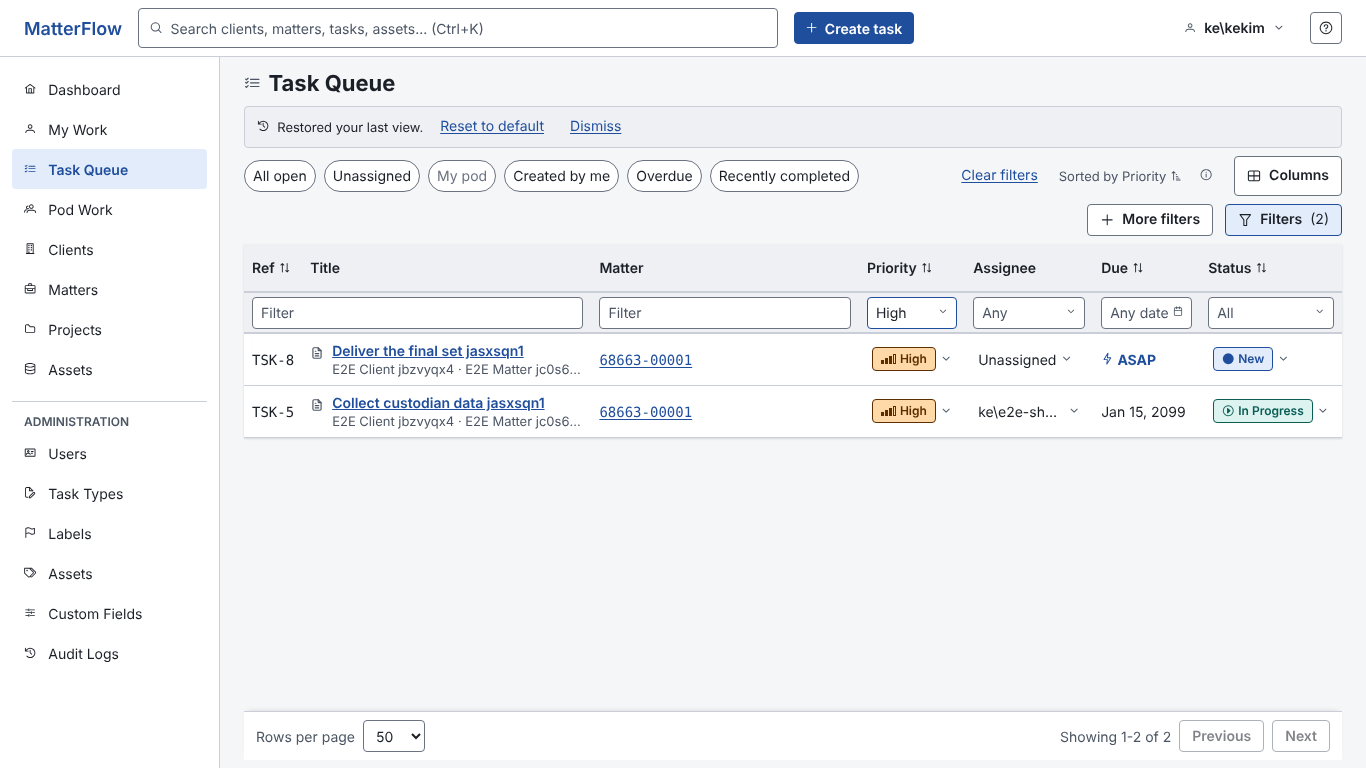
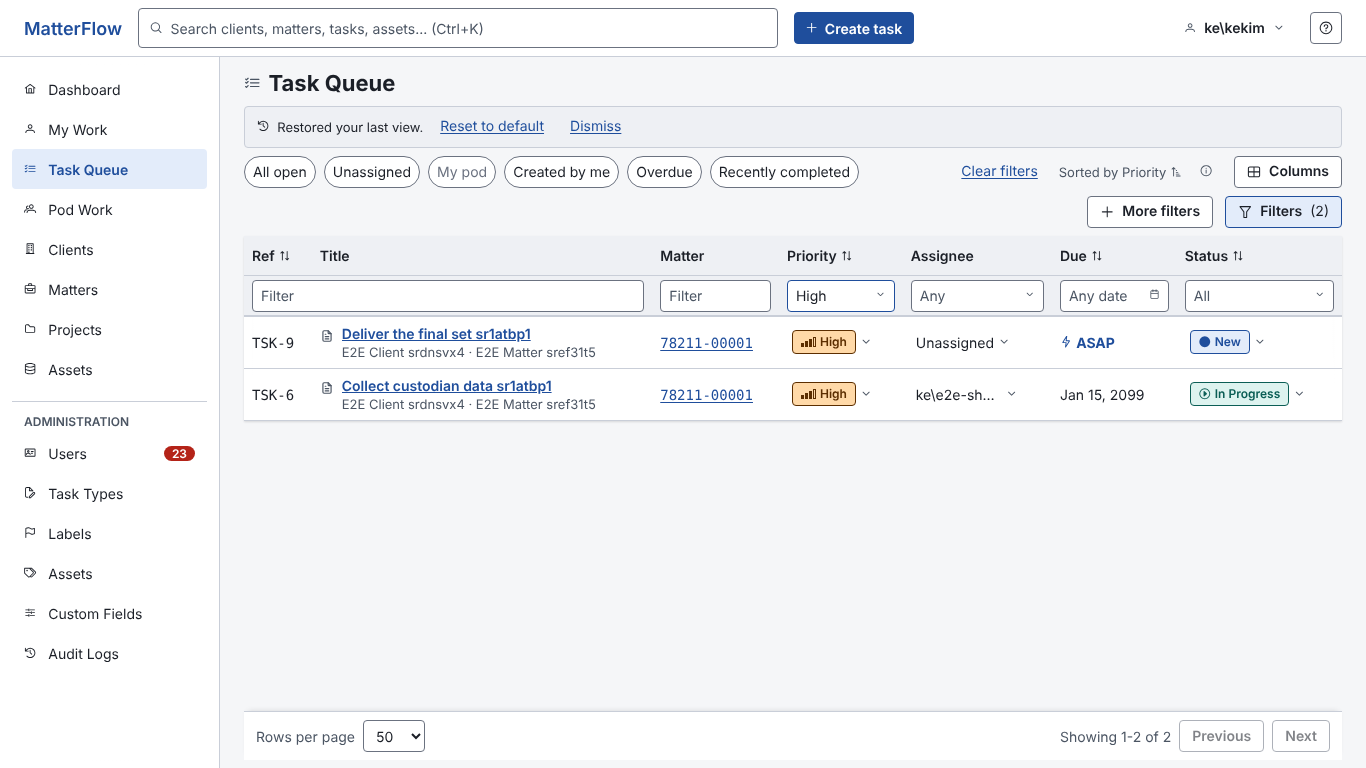
Filters: work table layout (header and filter row heights, text filters do not widen columns), Availability select, test robustness
The header row of the work table is exactly 40 px when the filter row shows (it sticks at 40 px), Columns is 32 px like Filters and More filters, text
filters fill their cell instead of widening the column (the Title no longer wraps to two lines), quick views stay left in the bar. The select in a filter
row has tight side padding so "Out of office" is no longer clipped in the Users Availability filter. Users e2e tests use a width at which the grid does not
fall back to the sheet; the Audit smoke test waits for the live Object id filter to load before opening a row; fixed-header, ux-round-4 and assignment tests
follow the new bar. Screenshots and README of the work lists.

Claude-Session: https://claude.ai/code/session_01GjQ3L6gEego4PwsSfbngaa

diff --git a/frontend/e2e/tests/column-filters-admin.spec.ts b/frontend/e2e/tests/column-filters-admin.spec.ts
@@ -30,14 +30,16 @@ test.describe('Column filters on the administration lists', () => {
       page,
       seed,
     }) => {
-      await page.setViewportSize({ width: 1366, height: 768 });
+      // 1600 px: the Users grid is borderline at 1366 (a person with pods fills its width and the filters then move into the sheet by design),
+      // and these tests are about the filters, not about that fallback.
+      await page.setViewportSize({ width: 1600, height: 900 });
       const token = uid();
       const tech = await seed.user(['Data Technician'], `tech-${token}`);
       const away = await seed.user(['Data Scientist'], `away-${token}`);
       const waiting = await seed.user([], `wait-${token}`);
       await seed.outOfOffice(away.userId, { note: 'Away' });
 
-      await page.goto('/admin/users?status=all');
+      await page.goto('/admin/users');
       const rows = grid(page, 'Users list').locator('tbody tr');
       await expect(rows.first()).toBeVisible();
       // No search box and no status or availability select: the filters are column filters, closed by default.
@@ -46,6 +48,8 @@ test.describe('Column filters on the administration lists', () => {
         0,
       );
       await expect(toggle(page)).toHaveAttribute('aria-pressed', 'false');
+      await page.goto('/admin/users?status=all');
+      await expect(rows.first()).toBeVisible();
 
       await page.goto(`/admin/users?status=all&account=${token}`);
       await expect(text(page, 'Windows account')).toHaveValue(token); // the address opened the row
@@ -94,7 +98,9 @@ test.describe('Column filters on the administration lists', () => {
     });
 
     test('First seen takes a date range and presets in the viewer zone', async ({ page, seed }) => {
-      await page.setViewportSize({ width: 1366, height: 768 });
+      // 1600 px: the Users grid is borderline at 1366 (a person with pods fills its width and the filters then move into the sheet by design),
+      // and these tests are about the filters, not about that fallback.
+      await page.setViewportSize({ width: 1600, height: 900 });
       const token = uid();
       await seed.user(['Data Technician'], `seen-${token}`);
       await page.goto(`/admin/users?status=all&account=${token}`);
@@ -116,7 +122,9 @@ test.describe('Column filters on the administration lists', () => {
       page,
       seed,
     }) => {
-      await page.setViewportSize({ width: 1366, height: 768 });
+      // 1600 px: the Users grid is borderline at 1366 (a person with pods fills its width and the filters then move into the sheet by design),
+      // and these tests are about the filters, not about that fallback.
+      await page.setViewportSize({ width: 1600, height: 900 });
       await seed.user([], `cue-${uid()}`); // someone is waiting
       await page.goto('/admin/users');
       await expect(grid(page, 'Users list').locator('tbody tr').first()).toBeVisible();

diff --git a/frontend/e2e/tests/ux-round-4.spec.ts b/frontend/e2e/tests/ux-round-4.spec.ts
@@ -444,9 +444,9 @@ test.describe('Round 4: queues, wording and accessibility', () => {
       (await page.getByRole('button', { name: 'Columns' }).boundingBox())!,
     ];
     expect(columns.height).toBe(filters.height);
-    // "Sorted by" and Columns sit in a bar directly above the grid (below the Filters row), at its right end.
+    // "Sorted by", Columns, More filters and Filters are one bar directly above the grid (one line at this width).
     const header = (await page.locator('table thead').first().boundingBox())!;
-    expect(columns.y).toBeGreaterThan(filters.y);
+    expect(Math.abs(columns.y - filters.y)).toBeLessThan(2);
     expect(columns.y + columns.height).toBeLessThanOrEqual(header.y + 1);
 
     const client = await seed.client();
@@ -476,7 +476,7 @@ test.describe('Round 4: queues, wording and accessibility', () => {
     expect(await card.locator('li').count()).toBeLessThanOrEqual(9);
   });
 
-  test('UXR4-18: a task due today reads "Due today" in the header like the queues, and a Title or Ref filter is counted once and not repeated as a chip', async ({
+  test('UXR4-18: a task due today reads "Due today" in the header like the queues, and a Title or Ref filter sits in the filter row, not in a chip', async ({
     page,
     seed,
   }) => {
@@ -490,8 +490,9 @@ test.describe('Round 4: queues, wording and accessibility', () => {
     await expect(page.locator('[data-due]')).not.toContainText('Due soon');
 
     await page.goto(`/tasks?q=${encodeURIComponent(task.taskNumber)}`);
+    // A link with a filter and no status asks for every status: the filter and "Status: All" are the two filters it carries.
     await expect(page.getByRole('button', { name: /^Filters/ })).toHaveText(
-      /^\s*Filters\s*\(1\)\s*$/,
+      /^\s*Filters\s*\(2\)\s*$/,
     );
     await expect(page.getByRole('textbox', { name: 'Filter by Title or Ref' })).toHaveValue(
       task.taskNumber,

diff --git a/frontend/src/app/shared/work-queue/task-table.scss b/frontend/src/app/shared/work-queue/task-table.scss
@@ -338,7 +338,15 @@ th[aria-sort='descending'] .wt-sort {
   }
 }
 
-/* The inline column filters are a second header row, 40 px high like the header row above it (see styles/_fixed-page.scss). */
+/* The inline column filters are a second header row, 40 px high like the header row above it (see styles/_fixed-page.scss): the filter row
+   sticks at 40 px, so the header row must be exactly that (a 32 px sort button and 4 px above and below it). */
+.wt thead:has(.mf-filter-row) th {
+  padding-block: var(--mf-s1);
+  /* The line under the header row is the shadow of the sticky header; a collapsed border would add half a pixel to its height. */
+  border-bottom: 0;
+  box-shadow: inset 0 -1px 0 var(--mf-border);
+}
+
 .wt .mf-filter-row td {
   height: 40px;
   padding: var(--mf-s1) var(--mf-s2);
@@ -349,4 +357,11 @@ th[aria-sort='descending'] .wt-sort {
 .wt--compact .mf-filter-row td {
   padding-block: var(--mf-s1);
   height: 40px;
+}
+
+/* A text filter must not widen its column: this table sizes its columns by their content, and an input's own preferred width (20
+   characters) would take the room from the Title. It fills the cell instead of asking for room. */
+:host ::ng-deep .mf-filter-row .cf__input {
+  width: 0;
+  min-width: 100%;
 }

diff --git a/frontend/e2e/tests/dashboard-audit.spec.ts b/frontend/e2e/tests/dashboard-audit.spec.ts
@@ -406,6 +406,9 @@ test.describe('Audit Logs browser (smoke)', () => {
     await page.getByRole('button', { name: /^Filters/ }).click(); // the filter form is folded away until asked for
     await page.getByRole('combobox', { name: 'Filter by Object type' }).selectOption('Task');
     await page.getByRole('textbox', { name: 'Filter by Object id' }).fill(String(task.taskId));
+    // The id applies live after a pause and reloads the list, which closes an opened row: wait for that load before opening one.
+    await expect(page).toHaveURL(new RegExp(`objectId=${task.taskId}(&|$)`));
+    await expect(page.locator('tr[data-event]')).toHaveCount(1); // only this task's own event is left once the id has applied
 
     const created = page
       .locator('tr[data-event]')

diff --git a/frontend/e2e/tests/column-filters-work-lists.spec.ts b/frontend/e2e/tests/column-filters-work-lists.spec.ts
@@ -163,6 +163,9 @@ test.describe('Column filters on the work lists', () => {
       await expect(page.getByRole('textbox', { name: 'Filter by Title or Ref' })).toHaveValue(
         token,
       );
+      // The view is remembered once the list has loaded (it can be empty: the priority is just a filter to remember).
+      await expect(page.locator('tbody [data-loading]')).toHaveCount(0);
+      await expect(page.locator('tr[data-task], tbody [data-empty]').first()).toBeVisible();
 
       // Same browser, plain link: the view comes back (the search text is not remembered) and says so.
       await page.goto('/tasks');

diff --git a/frontend/src/app/shared/work-queue/column-chooser.ts b/frontend/src/app/shared/work-queue/column-chooser.ts
@@ -65,9 +65,9 @@ import { WORK_COLUMNS, Density, normalizeColumns } from './column-prefs';
     .cc {
       position: relative;
     }
-    /* Same height as the Filters button beside it in the toolbar row (UXR4-16). */
+    /* Same height as the Filters and More filters buttons beside it in the bar (UXR4-16): the compact 32 px. */
     .cc-button {
-      min-height: var(--mf-row-h);
+      min-height: var(--mf-row-h-compact);
     }
     .cc-panel {
       position: absolute;

diff --git a/frontend/src/app/features/admin/users/users-page.html b/frontend/src/app/features/admin/users/users-page.html
@@ -28,7 +28,7 @@
               <th scope="col">Email</th>
               <th scope="col">Roles</th>
               <th scope="col">Pods</th>
-              <th scope="col" class="mf-col-availability">Availability</th>
+              <th scope="col">Availability</th>
               <th scope="col">Status</th>
               <th scope="col" class="mf-col-actions"><span class="mf-sr">Actions</span></th>
             </tr>

diff --git a/frontend/src/app/shared/ui/column-filters.ts b/frontend/src/app/shared/ui/column-filters.ts
@@ -180,6 +180,9 @@ export interface FilterOption {
       width: 100%;
       min-width: 0;
       font-weight: 400;
+      /* The arrow of a native select takes room of its own: tight side padding keeps the widest choice ("Out of office") whole in a
+         narrow column instead of clipping it. */
+      padding-inline: var(--mf-s1);
     }
   `,
 })

diff --git a/frontend/src/app/features/admin/users/users-page.scss b/frontend/src/app/features/admin/users/users-page.scss
@@ -203,8 +203,3 @@ tr.mf-selected {
     margin-top: var(--mf-s3);
   }
 }
-
-/* The Availability filter is a native select: its widest choice, "Out of office", and the arrow must fit, or the text is clipped. */
-.mf-col-availability {
-  min-width: 11.5rem;
-}

diff --git a/docs/ux/column-filters/README.md b/docs/ux/column-filters/README.md
@@ -252,8 +252,11 @@ Screenshots (`<name>-<width>x<height>.png`): `work-queue-filters-open`, `work-qu
 
 ### Also in this change
 
-- The Availability select in the Users filter row (Batch 4) clipped "Out of office": the column now has a minimum width that fits the widest choice and the arrow.
+- The Availability select in the Users filter row (Batch 4) clipped "Out of office": the select in a filter row now has tight side padding (`.cf__select`), so the widest choice and the arrow fit the column it already had. (Widening the column was tried first: it makes the Users grid overflow into the sheet more often, which is the wrong trade.) `admin-users-availability-select-1366x768.png` shows it.
 - Quick view buttons no longer render `title="null"` when they have no tooltip.
+- The work table's header row is exactly 40 px when the filter row is shown (the filter row sticks under it at 40 px), and Columns is the same 32 px as Filters and More filters.
+- A text filter in the work table fills its cell and no longer asks for room: an input's own preferred width (20 characters) had widened the Matter column and squeezed the Title into two lines (6 rows instead of 8 on screen at 1366x768); the table sizes its columns by their content, unlike the record lists, which use a fixed layout.
+- Tests that were flaky or tied to a layout accident: the Users e2e tests ran on a grid that is borderline at 1366 px (they asserted "closed by default" through the sheet fallback); they use 1600 px and a plain link now. The Audit smoke test opened an event row while the live Object id filter was still about to reload the list; it waits for that load.
 
 ### Deferred
 
